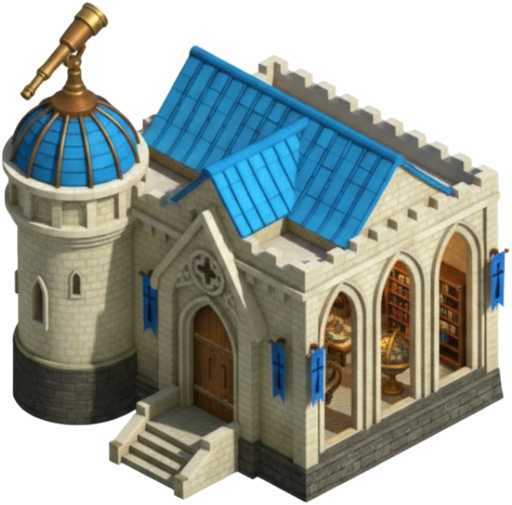
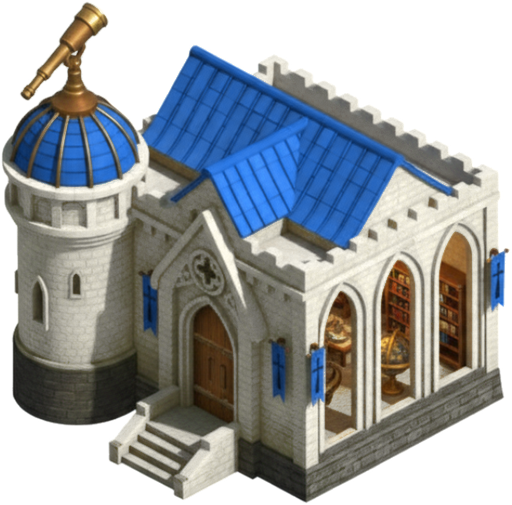
v9.13: cada edificio 2D con su propio color de tejado y piedra
Claude-Session: https://claude.ai/code/session_011d55Sdhia9uAEwnnTVixP4

diff --git a/juego3d/js/datos.js b/juego3d/js/datos.js
@@ -4,10 +4,10 @@
 //  Para cambiar el nombre del juego, cambia NOMBRE_JUEGO.
 // =====================================================================
 
-var VERSION_JUEGO = '9.12';
+var VERSION_JUEGO = '9.13';
 /* v8.70: NOTAS DE CADA VERSIÓN. Cada versión nueva manda UN correo solo con su nota (las más nuevas arriba).
    Al publicar una versión, agrega aquí su línea: [versión, fecha, texto en español, texto en inglés]. */
-var NOVEDADES_VER = [["9.12","2026-11-25","Nuevo calendario de premios del mes («Conectarse», a la izquierda de la ciudad): cada día que entras se ilumina un premio más. El día 15 trae 80 botellas de campaña.","New monthly log-in calendar («Log-in», left side of the city): each day you play lights up one more reward. Day 15 gives 80 campaign flasks."],["9.11","2026-11-25","Tienda: elige cuántos objetos compras con gemas (con total y gemas que te quedan). Inventario: usa varios de golpe también la energía de héroe, el megáfono, la cosecha y las tropas. Calles de adoquines más realistas. Con dos dedos puedes mover el mapa mientras acercas o giras. El panel de abajo empieza recogido y los botones laterales ocupan menos.","Shop: choose how many items to buy with gems. Inventory: use several at once for more items. More realistic cobblestone streets. Two-finger pan while zooming or rotating. Bottom panel starts collapsed and side buttons take less space."],
+var NOVEDADES_VER = [["9.13","2026-11-25","Cada edificio de la ciudad tiene ahora su propio color de tejado y de piedra: Academia azul, Almacén marrón, Cabaña terracota, Embajada púrpura, Enfermería verde, Establo granate, Galería de Tiro pizarra y Mercado dorado.","Each city building now has its own roof and stone colour: blue Academy, brown Warehouse, terracotta Cottage, purple Embassy, green Infirmary, crimson Stable, slate Shooting Gallery and golden Market."],["9.12","2026-11-25","Nuevo calendario de premios del mes («Conectarse», a la izquierda de la ciudad): cada día que entras se ilumina un premio más. El día 15 trae 80 botellas de campaña.","New monthly log-in calendar («Log-in», left side of the city): each day you play lights up one more reward. Day 15 gives 80 campaign flasks."],["9.11","2026-11-25","Tienda: elige cuántos objetos compras con gemas (con total y gemas que te quedan). Inventario: usa varios de golpe también la energía de héroe, el megáfono, la cosecha y las tropas. Calles de adoquines más realistas. Con dos dedos puedes mover el mapa mientras acercas o giras. El panel de abajo empieza recogido y los botones laterales ocupan menos.","Shop: choose how many items to buy with gems. Inventory: use several at once for more items. More realistic cobblestone streets. Two-finger pan while zooming or rotating. Bottom panel starts collapsed and side buttons take less space."],
   ["9.10","2026-11-25","Perfil del jugador desde el chat: ahora tiene ✕ arriba, y al tocar fuera se cierra solo la tarjeta y sigues en el chat.","Player profile from the chat now has a ✕, and tapping outside closes only the card so you stay in the chat."],
   ["8.99","2026-11-25","Marcha: ahora ves cuántas tropas tienes y cuántas mandas. El cofre diario se cierra con la ✕. «Jugar sin cuenta» entra con un toque. Ajustes más limpio y el botón Actualizar ya no tapa nada.","March shows the troops you have and the ones you send. The daily chest closes with ✕. Play without account works with one tap. Cleaner Settings."],
   ["8.98","2026-11-25","Pantalla de entrar nueva: la portada de Brother Kingdom de fondo, el escudo del sol y botones más claros. También puedes ver la contraseña con el ojo.","New sign-in screen with the Brother Kingdom cover, the sun shield and clearer buttons. You can also show your password with the eye."],

diff --git a/juego3d/sw.js b/juego3d/sw.js
@@ -1,6 +1,6 @@
 // Tiny Kingdom se juega solo con internet: no se guarda nada para jugar sin conexión.
 // Cambia VERSION cada vez que publiques una versión nueva del juego.
-var VERSION = 'tinykingdom-v9.12';
+var VERSION = 'tinykingdom-v9.13';
 
 self.addEventListener('install', function () { self.skipWaiting(); });
 
